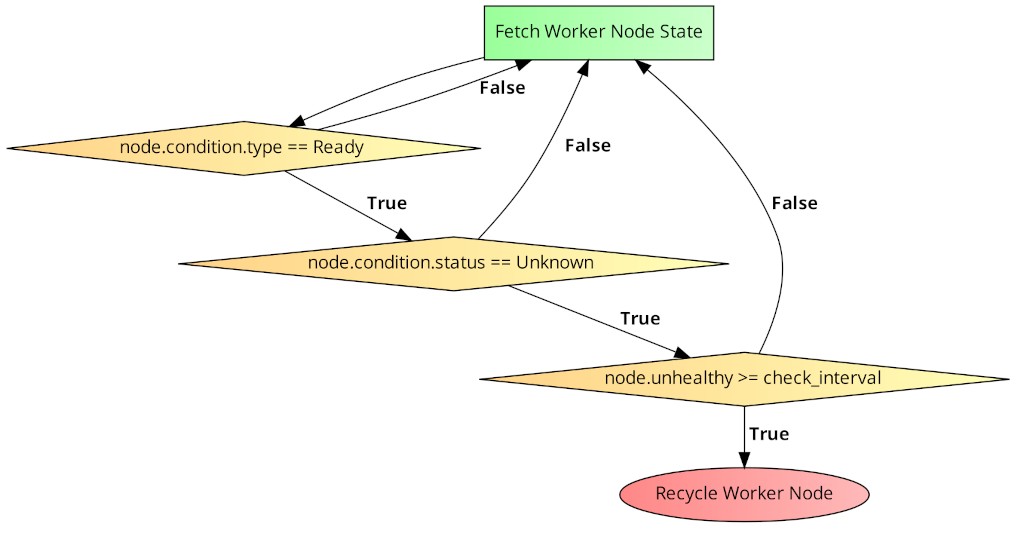
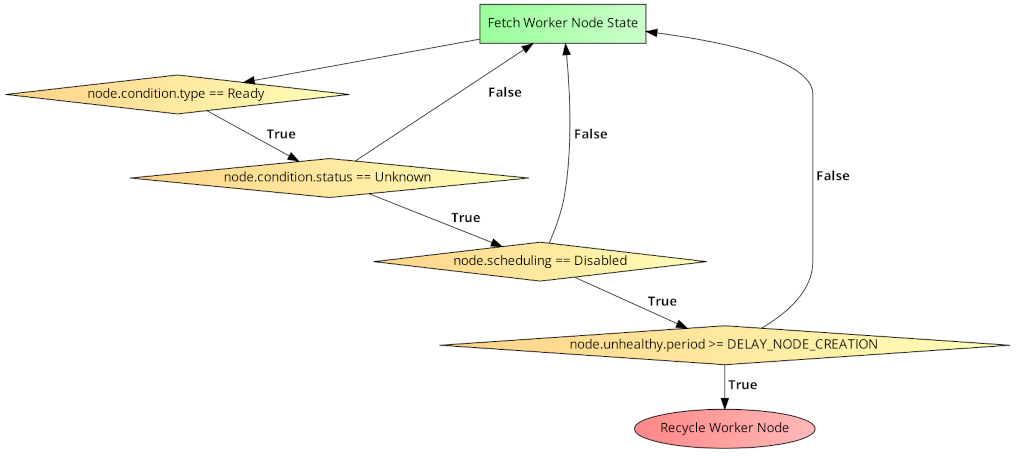
documentation and flow diagram fixes

diff --git a/DOKS-automatic-node-repair/README.md b/DOKS-automatic-node-repair/README.md
@@ -12,12 +12,14 @@ Possible ways of achieving this:
  - [Digital Mobius](https://github.com/Qovery/digital-mobius)
  - [Draino](https://github.com/planetlabs/draino) and [Kubernetes Cluster Autoscaler](https://github.com/kubernetes/autoscaler/tree/master/cluster-autoscaler)
 
-In this tutorial the main focus will be the [Digital Mobius](https://github.com/Qovery/digital-mobius) project. A simplified diagram of the internal flow (logic) is provided as well. Finally, we will have it deployed to a running `DOKS` cluster and observe how well it handles cluster nodes recycling.
+In this tutorial the main focus will be the [Digital Mobius](https://github.com/Qovery/digital-mobius) project because it was specifically designed for the usecase described in this tutorial (more details below).
 
-Overview and features:
- - Open source (written in [GO](https://golang.org))
- - Can be used as a `Kubernetes Deployment` or as a standalone binary (CLI)
- - [Helm chart](https://github.com/Qovery/digital-mobius/tree/main/charts/Digital-Mobius) source code is available for easy K8S deployment (or on [artifacthub.io](https://artifacthub.io/packages/helm/digital-mobius/digital-mobius))
+Main reasons to consider `Digital Mobius`:
+ - Open source (written in [Go](https://golang.org)).
+ - Simplicity and ease of configuration.
+ - [Helm chart](https://github.com/Qovery/digital-mobius/tree/main/charts/Digital-Mobius) is available for easy `K8S` deployment (or on [artifacthub.io](https://artifacthub.io/packages/helm/digital-mobius/digital-mobius))
+
+A simplified diagram of the internal flow (logic) is provided as well. Finally, we will have it deployed to a running `DOKS` cluster and observe how well it handles cluster nodes recycling.
 
 ## DOKS Cluster Setup
 
@@ -63,13 +65,13 @@ Steps **1** to **5** can be skipped if you already have a cluster running in pla
 5. Spin up the cluster and wait for it to be provisioned:
 
     ```bash
-    export CLUSTER_NAME="mobius-testing-cluster"  # change as required
+    export CLUSTER_NAME="mobius-testing-cluster"
     export CLUSTER_REGION="lon1"                  # grab a region that's more close to you from: doctl k8s options regions
-    export CLUSTER_NODE_SIZE="s-2vcpu-4gb"        # change as required
+    export CLUSTER_NODE_SIZE="s-2vcpu-4gb"
     export CLUSTER_NODE_COUNT=2                   # need 2 nodes at least to test the scenarios
-    export CLUSTER_NODE_POOL_NAME="mbt-np"        # change as required
-    export CLUSTER_NODE_POOL_TAG="mbt-cluster"    # change as required
-    export CLUSTER_NODE_POOL_LABEL="type=basic"   # change as required
+    export CLUSTER_NODE_POOL_NAME="mbt-np"
+    export CLUSTER_NODE_POOL_TAG="mbt-cluster"
+    export CLUSTER_NODE_POOL_LABEL="type=basic"
 
     doctl k8s cluster create "$CLUSTER_NAME" \
       --auto-upgrade=false \
@@ -112,13 +114,13 @@ Steps **1** to **5** can be skipped if you already have a cluster running in pla
 
 ### Overview
 
-[Digital Mobius](https://github.com/Qovery/digital-mobius) is an open source project written in the `GO` language which can automatically recycle unhealthy nodes from a `DigitalOcean Kubernetes` cluster (DOKS).
+[Digital Mobius](https://github.com/Qovery/digital-mobius) is an open source project written in the `Go` language which can automatically recycle unhealthy nodes from a `DigitalOcean Kubernetes` cluster (DOKS).
 
 ### How it Works
 
-The logic inside the application is watching for nodes that are in an unhealthy state at a regular interval specified by the user. A node is considered to be unhealthy if the [Node Condition](https://kubernetes.io/docs/concepts/architecture/nodes/#condition) is set to `Ready` and the status to `False` or `Unknown`. `Digital Mobius` provides also a user configurable flag that specifies how much time has to pass before an unhealthy node needs to be recycled. If all the conditions enumerated previously are met then the affected node(s) will be re-created. It does so via a call to the DigitalOcean's Kubernetes [Delete Kubernetes Node](https://docs.digitalocean.com/reference/api/api-reference/#operation/delete_kubernetes_node) `REST API`.
+The logic inside the application is watching for nodes that are in an unhealthy state at a regular interval specified by the user. As described in the official `Kubernetes` documentation, a node is considered to be unhealthy if the [Node Condition](https://kubernetes.io/docs/concepts/architecture/nodes/#condition) is set to `Ready` and the status to `False` or `Unknown`. `Digital Mobius` looks for the `Unknown` status which is a result of the master node not being able to communicate with the worker node via the `kubelet`. It also provides a user configurable flag that specifies how much time has to pass before an unhealthy node needs to be recycled. If all the conditions enumerated previously are met then the affected node(s) will be re-created. It does so via a call to the DigitalOcean's Kubernetes [Delete Kubernetes Node](https://docs.digitalocean.com/reference/api/api-reference/#operation/delete_kubernetes_node) `REST API`.
 
-Below is a diagram showing how `Digital Mobius` works:
+Below is a simplified diagram showing how `Digital Mobius` checks the worker node(s) state:
 
 ![Digital Mobius Flow](content/img/digital-mobius-flow.png)
 
@@ -133,7 +135,7 @@ DIGITAL_OCEAN_TOKEN: "<your_digital_ocean_api_token>"       # personal DO API to
 DIGITAL_OCEAN_CLUSTER_ID: "<your_digital_ocean_cluster_id>" # DOKS cluster ID that needs to be monitored
 ```
 
-The most important values that we need to here provide is the DigitalOcean `REST API token`, the `Cluster ID` and the `Node Creation Delay` time interval which can be expressed in seconds or minutes using the appropriate suffix - e.g.: `10s`, `10m`, etc. 
+The most important values that we need to here provide is the DigitalOcean `API token`, the `Cluster ID` and the `Node Creation Delay` time interval which can be expressed in seconds or minutes using the appropriate suffix - e.g.: `10s`, `10m`, etc. 
 
 ### Deployment Steps
 
@@ -158,7 +160,13 @@ We're going to use `Helm` to perform the deployment in a few very easy steps as 
     export DIGITAL_OCEAN_CLUSTER_ID="$(doctl k8s cluster list -o json | jq -r '.[].id')"
     echo "$DIGITAL_OCEAN_CLUSTER_ID"
     ```
-3. Start the actual deployment in a dedicated namespace (in this example `maintenance` is used):
+3. Make sure that the `DigitalOcean` token is set if not already:
+
+    ```bash
+    export DIGITAL_OCEAN_TOKEN="<your_do_personal_access_token>"
+    echo "$DIGITAL_OCEAN_TOKEN"
+    ```
+4. Start the actual deployment in a dedicated namespace (in this example `maintenance` is used):
 
     ```bash
     helm install digital-mobius digital-mobius/digital-mobius --version 0.1.4 \
@@ -167,7 +175,7 @@ We're going to use `Helm` to perform the deployment in a few very easy steps as 
       --set enabledFeatures.disableDryRun=true \
       --namespace maintenance --create-namespace
     ```
-4. Check the application:
+5. Check the application:
 
     List deployments:
 
@@ -275,7 +283,7 @@ The experiment steps:
     ```bash
     brew install watch
     ```
-2. Pick a `doks-debug` Pod and `exec` into it:
+2. Pick the first `doks-debug` Pod and `exec` into it (you can choose any other as well):
 
     ```bash
     DOKS_DEBUG_POD_NAME=$(kubectl get pods -l name=doks-debug -ojsonpath='{.items[0].metadata.name}' -n kube-system)
@@ -313,6 +321,15 @@ The experiment steps:
     systemctl stop kubelet
     ```
 
+**Tip:**
+
+We can kill the `kubelet` using the `kubectl one line` example provided below:
+
+```bash
+DOKS_DEBUG_POD_NAME=$(kubectl get pods -l name=doks-debug -ojsonpath='{.items[0].metadata.name}' -n kube-system)
+kubectl exec -it "$DOKS_DEBUG_POD_NAME" -n kube-system -- chroot /host systemctl stop kubelet
+```
+
 ## Observation and Results
 
 After the `kubelet` stop command is issued you'll be kicked out of the `kubectl exec` session which is a good sign because this means that the `Node Controller` lost its connection with the affected node where the `kubelet` was killed.
@@ -325,7 +342,7 @@ basicnp-8hc5d   Ready      <none>   28h    v1.21.2
 basicnp-8hx1a   NotReady   <none>   144m   v1.21.2
 ```
 
-After a while the node should vanish which is the expected behavior:
+After the `DELAY_NODE_CREATION` time interval expired, the node should vanish which is the expected behavior:
 
 ```
 NAME            STATUS   ROLES    AGE   VERSION
